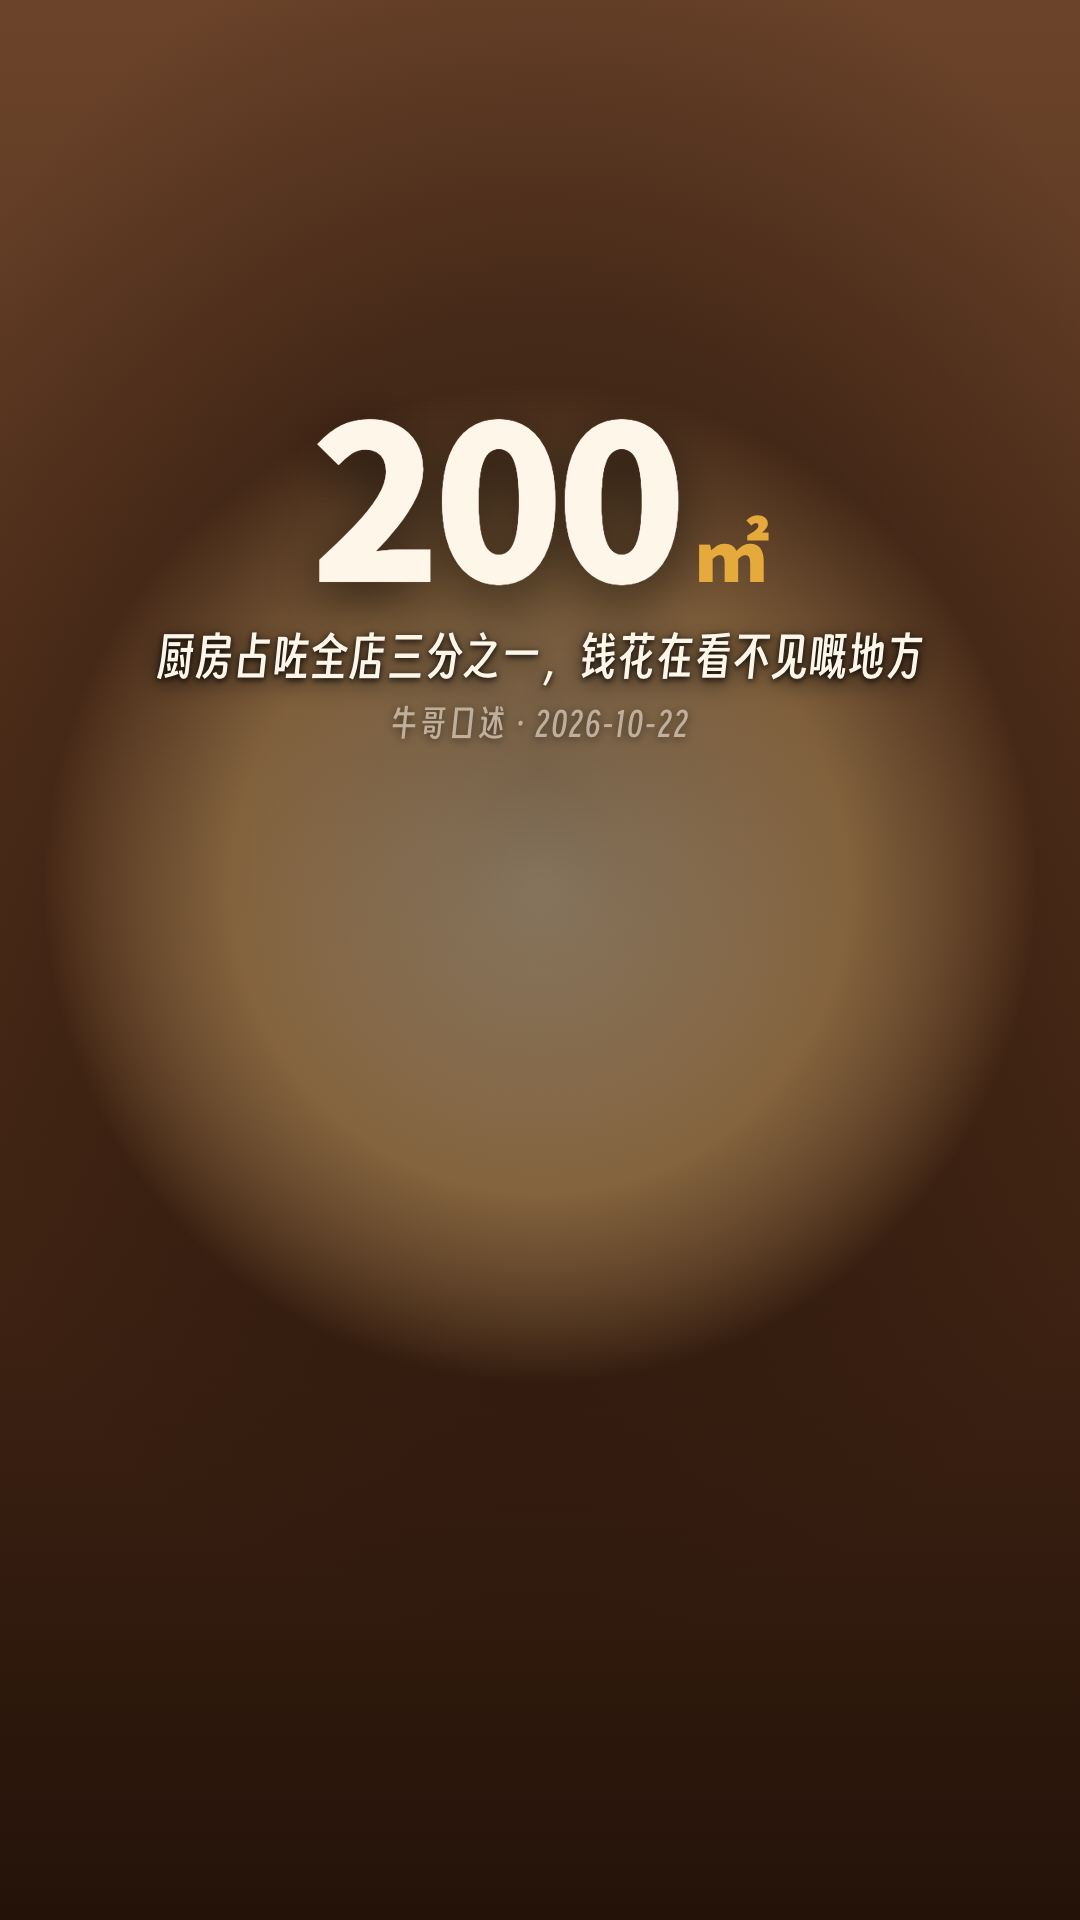
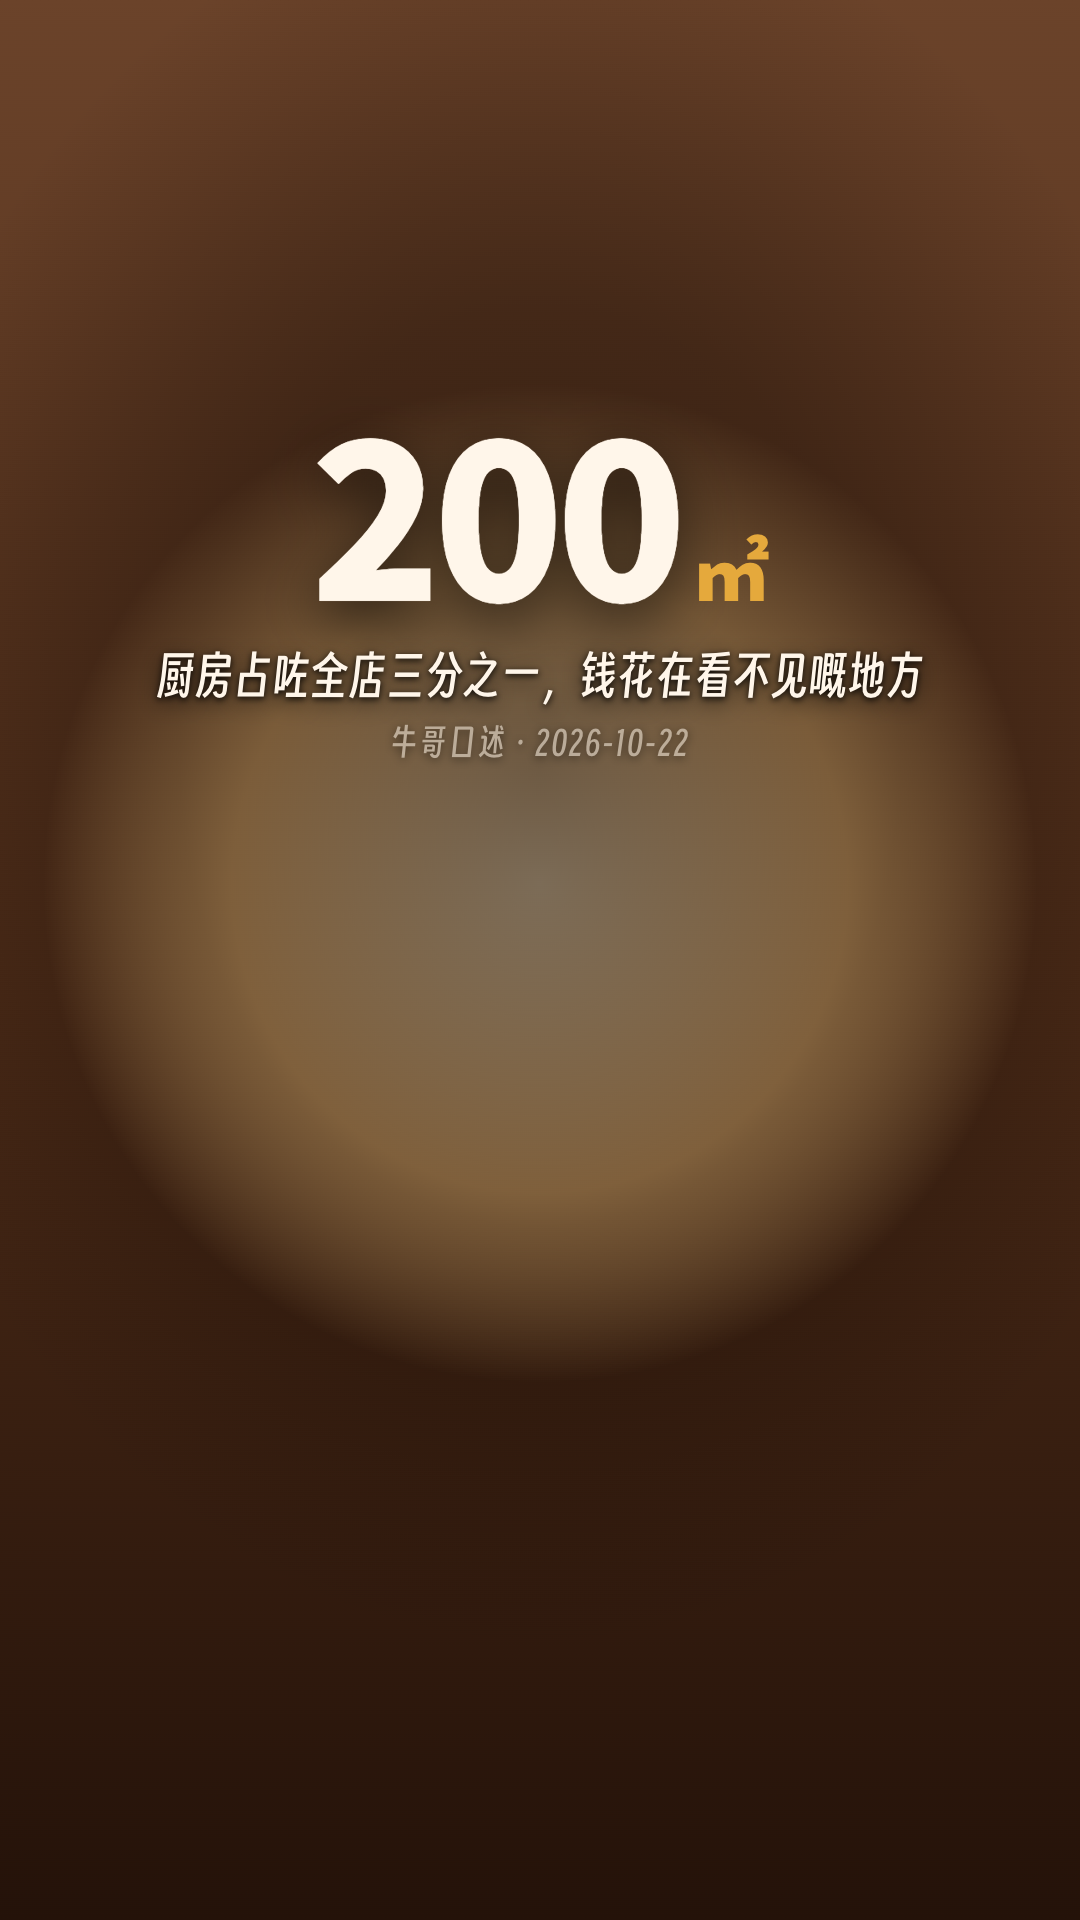
T-018 修 卡面浮起：词条卡内边距、面板外投影与底板/遮罩明度差
一轮 1080 原像素复核的判词：「面板颜色与背景纯度接近，仅靠微小色差区分，浮不起来」。
两个根因都回到代码，都在 tokens.surface 里补成可选字段（缺省 = 旧值，P1/P2/P3 不动）：

- surface.term_pad / surface.term_gap：上一轮删掉的是「第二层框」，不该把面板自己的
  呼吸一起删成贴字。P4 给 [58,52] / 34。
- surface.shadow：面板的 z 轴。P4 给暖色大半径外投影 + 1px 内侧顶光，不是硬边。
- P4 plate 抬亮到 rgba(92,54,26,.90)、金边 .30→.72、scrim 中心 .52→.56、
  card.mg_top_h 0.21→0.23（重心下压一档）。

读数（1080 原像素，面板内 vs 紧贴边外，L=0.2126R+0.7152G+0.0722B）：
term 27.5/53.6（Δ−26.1，卡面比周围暗，像坑）→ 58.9/42.5（Δ+16.4）；
versus 同口径 → 58.9/43.4（Δ+15.5）。
渲染器侧新增 --surface-shadow / --surface-term-pad / --surface-term-gap，
代回变量后比对：P2/P3 仍只有 1 条规则不同（.mg-term→.mg-word），P1 仍 4 条；
像素对账 stat/versus 仍 0/2073600。check_packs 新增字段校验（负样本：只给 plate 不给
scrim、shadow 写「硬边」、term_pad 写单数、term_gap 写字符串，全部判红）。

Changed region(s): [[0.1222, 0.2188, 0.8556, 0.4062]]

diff --git a/scripts/render_hf.py b/scripts/render_hf.py
@@ -1157,10 +1157,12 @@ html, body {{ width:{W}px; height:{H}px; overflow:hidden; background:#000; }}
   color:rgba(var(--surface-ink-rgb),.94); line-height:1.3; }}
 /* versus：两栏面板 + 圆形 VS 徽标。徽标是「这是对立」的唯一视觉信号 */
 .mg-versus .mg-ver {{ display:flex; align-items:stretch; gap:{mg_gap2}px; width:100%; }}
+/* 面板要能「浮起来」，不能只是「画在背景上的一块色」：外投影 + 较亮的底 + 一根亮边。
+   三样都走 tokens.surface（shadow / plate / border），老包不写就是 none，像素不动。 */
 .mg-versus .side {{ flex:1; display:flex; flex-direction:column; gap:{mg_gap2}px;
   padding:{mg_pan}px {mg_pad2}px; border-radius:{mg_rad}px;
   background:var(--surface-plate); border:1px solid var(--surface-border);
-  backdrop-filter:var(--surface-blur); }}
+  backdrop-filter:var(--surface-blur); box-shadow:var(--surface-shadow); }}
 .mg-versus .side b {{ font-family:"SC-Big"; font-weight:900; font-size:{mg_vh}px;
   color:var(--surface-ink); }}
 .mg-versus .side span {{ font-family:"SC-Sub"; font-weight:600; font-size:{mg_vs}px;
@@ -1174,7 +1176,8 @@ html, body {{ width:{W}px; height:{H}px; overflow:hidden; background:#000; }}
 /* term 是一张「词条卡」，要有一块自己的面板——白字直接压在杂树/浅墙上必糊
    （srt-motion-cards 的 term-card 就是一块 .84 的深底，这层别省；具体什么色归包管） */
 .mg-term {{ background:var(--surface-plate-term); border:1px solid var(--surface-border-term);
-  border-radius:{mg_rad}px; padding:{mg_pan}px {mg_pad2}px; text-align:left;
+  border-radius:{mg_rad}px; padding:var(--surface-term-pad); text-align:left;
+  backdrop-filter:var(--surface-blur); box-shadow:var(--surface-shadow);
   align-items:flex-start !important; display:flex; flex-direction:column; }}
 /* 词头**不能**再叫 .mg-term：外层定位容器就是 `mg mg-term`，内外同名时同一个
    `.mg-term` 选择器同时命中两层，卡片被套上一个同样的深框——「黑框套黑框」
@@ -1183,7 +1186,8 @@ html, body {{ width:{W}px; height:{H}px; overflow:hidden; background:#000; }}
   color:var(--surface-ink); line-height:1.04; letter-spacing:-.02em; }}
 /* 不加左侧竖条：它只对着释义，看着像列表符号，把版面切散（srt 的 term-card 也没有） */
 .mg-term .mg-def {{ font-family:"SC-Sub"; font-weight:500; font-size:{mg_step}px;
-  color:rgba(var(--surface-ink-rgb),.95); margin-top:{mg_gap}px; line-height:1.42; text-align:left;
+  color:rgba(var(--surface-ink-rgb),.95); margin-top:var(--surface-term-gap);
+  line-height:1.42; text-align:left;
   text-shadow:0 2px 10px rgba(0,0,0,.9); }}
 {gen_css}
 </style>
@@ -1528,6 +1532,19 @@ def build_html(*, slug, W, H, FPS, total, videos, caps, cards, style, fonts, gra
         _blur = float(_surf.get("blur_ness") or 0)
     except (TypeError, ValueError):
         _blur = 0.0
+    # 「浮起」也是语域的一部分：一块板子压在食物上，没投影就像贴纸。
+    # 缺省 none，即不收这一行——老包（P1/P2/P3）像素一个不动。
+    _shadow = str(_surf.get("shadow") or "none")
+    # 词条卡自己的内边距与行间：去掉的是「第二层框」，不是面板的呼吸。
+    # 缺省值就是旧硬编码值（30/26 与 22），所以不写 = 视觉不变。
+    _pxv = lambda v: max(12, int(round(float(v) * (W / 1080.0))))          # noqa: E731
+    _tpad = _surf.get("term_pad")
+    _tpad_css = (f"{_pxv(_tpad[0])}px {_pxv(_tpad[1])}px"
+                 if isinstance(_tpad, (list, tuple)) and len(_tpad) == 2
+                 else f"{_pxv(30)}px {_pxv(26)}px")                        # 旧值：mg_pan / mg_pad2
+    _tgap = _surf.get("term_gap")
+    _tgap_css = (f"{_pxv(_tgap)}px" if isinstance(_tgap, (int, float))
+                 else f"{_pxv(22)}px")                                     # 旧值：mg_gap
     pack_vars = " ".join([
         f"--ground:{_pal.get('ground') or '#1A1410'};",
         f"--ink:{_pal.get('ink') or '#FFFFFF'};",
@@ -1544,6 +1561,9 @@ def build_html(*, slug, W, H, FPS, total, videos, caps, cards, style, fonts, gra
         f"--surface-ink-rgb:{_srgb};",
         # blur_ness=0 → none：等于不收这一行，老包的像素一个都不动
         f"--surface-blur:{'none' if _blur <= 0 else f'blur({_blur:g}px)'};",
+        f"--surface-shadow:{_shadow};",
+        f"--surface-term-pad:{_tpad_css};",
+        f"--surface-term-gap:{_tgap_css};",
     ])
     # MG 卡的上沿：默认 0.21H，压在字幕带之上；pack 可用 card.mg_top_h 调
     mg_top = round(float((style.get("card") or {}).get("mg_top_h") or 0.21) * 100, 2)

diff --git a/scripts/check_packs.py b/scripts/check_packs.py
@@ -62,8 +62,9 @@ HEX_RE = re.compile(r"^#[0-9A-Fa-f]{6}$")
 # 换包换不掉；拿它去包广式早茶，虾饺被压成生冷灰暗色（2026-11-13 T-018 事故）。
 # 这里两道闸：① 每个包必须把 surface 交代清楚；② 渲染器源码不许再写回那套冷黑蓝。
 SURFACE_REQUIRED = ("plate", "scrim", "border", "blur_ness")
-# 可选键：词条卡要更实的底/描边（字多面积小），卡面字色（深色纸底包不能跟 palette.ink）
-SURFACE_OPTIONAL = ("plate_term", "border_term", "ink")
+# 可选键：词条卡要更实的底/描边（字多面积小）、卡面字色（深色纸底包不能跟 palette.ink）、
+# 面板的「浮起」（阴影）与词条卡的呼吸（内边距 / 行间）——不写就等于没这一层
+SURFACE_OPTIONAL = ("plate_term", "border_term", "ink", "shadow", "term_pad", "term_gap")
 BLUR_MAX = 40          # 超过这个数就不叫「柔化」了，叫把底片糊成一片
 
 RENDERER = ROOT / "scripts" / "render_hf.py"
@@ -115,6 +116,20 @@ def check_surface(pack: dict) -> tuple[list[str], list[str]]:
     ink = surf.get("ink")
     if ink is not None and not HEX_RE.match(str(ink)):
         err.append(f"tokens.surface.ink 不是 #RRGGBB：{ink}")
+    # shadow：要么 none，要么是一串能生效的 CSS 阴影（含 px 半径）；「0 0 0 #000」这种硬边也算写了
+    sh = surf.get("shadow")
+    if sh is not None and str(sh).strip().lower() != "none" and "px" not in str(sh):
+        err.append(f"tokens.surface.shadow 不像 CSS 阴影：{sh}")
+    # term_pad：[上下, 左右] 两个数字（像素）；只写一个数会让上下左右挤成一圈字
+    tp = surf.get("term_pad")
+    if tp is not None:
+        ok_tp = (isinstance(tp, (list, tuple)) and len(tp) == 2
+                 and all(isinstance(v, (int, float)) and v >= 0 for v in tp))
+        if not ok_tp:
+            err.append(f"tokens.surface.term_pad 要写 [上下, 左右] 两个非负数：{tp}")
+    tg = surf.get("term_gap")
+    if tg is not None and not (isinstance(tg, (int, float)) and tg >= 0):
+        err.append(f"tokens.surface.term_gap 要是非负数（px）：{tg}")
     return err, warn
 
 

diff --git a/references/mg-library.md b/references/mg-library.md
@@ -139,13 +139,16 @@ Jerry 的原话：「srt-motion-cards 的卡还是用的不好，出现的太短
 
 | 字段 | 必填 | 作用 | 写作要点 |
 | --- | --- | --- | --- |
-| `plate` | ✓ | 面板底（`versus` 两栏） | 语域色 + 透明度，如暖食 `rgba(34,18,10,.78)` |
+| `plate` | ✓ | 面板底（`versus` 两栏） | 语域色 + 透明度，如暖食 `rgba(92,54,26,.90)` |
 | `plate_term` | | 词条卡底 | 字多面积小，一般比 `plate` 再实一成；不写就等同 `plate` |
-| `border` | ✓ | 面板描边 | 描边颜色也要跟语域走（暖食走暖白/金，不走中性白） |
+| `border` | ✓ | 面板描边 | 描边颜色也要跟语域走（暖食走暖白/金，不走中性白）；亮到能一眼看出卡沿 |
 | `border_term` | | 词条卡描边 | 不写等同 `border` |
 | `scrim` | ✓ | 整屏暗场 | 写**完整 CSS 背景**（`radial-gradient(...)` 整串），才能表达「只局部柔化、边缘归零」 |
 | `ink` | | 卡面字色 `#RRGGBB` | 深底浅字；纸感这类浅底包不能跟 `palette.ink` 混用 |
 | `blur_ness` | ✓ | 面板磨砂（`backdrop-filter` 半径） | `0` = 不磨砂（`none`，像素不动），> 24 会把底片糊成一片 |
+| `shadow` | | 面板外投影（可带一道内侧顶光） | 缺省 `none`（像素不动）。大半径 + 低不透明度 + 暖色，**不要硬边** |
+| `term_pad` | | 词条卡内边距 `[上下, 左右]` | 缺省 `[30, 26]`（旧值）。删内框时别把面板的呼吸一起删了 |
+| `term_gap` | | 词头与释义的行间（px） | 缺省 `22`（旧值）。词条卡的「词」与「释义」要能分开读 |
 
 两条硬规矩：
 
@@ -154,9 +157,14 @@ Jerry 的原话：「srt-motion-cards 的卡还是用的不好，出现的太短
    （`#0A0D13` / `#0C0F15`）或非等比 `scaleX()` 直接判红——防的是「下次顺手写回去」。
 2. **遮罩浓度是「读不读得出来」的账，不是风格账。** 换语域只换色温；
    把 `.90` 降到 `.52` 就等于把文字对比度抵给背景了，得同时把 `plate` 加实。
+3. **面板要「浮起来」，不能只是「画在背景上」。** 判据是可量的：面板内与紧贴边外的明度差
+   （L = 0.2126R+0.7152G+0.0722B）**要为正、且面板明显亮于贴边阴影带**。
+   同色系底板 + 同色系遮罩最容易犯的错就是「深棕底漂在暖棕背景上」：P4 一轮复核时
+   面板内 L=27.5、贴边 L=53.6（−26，卡面比周围暗），像一块坑；改成
+   `plate` 亮一档 + `shadow` 投影 + 亮一档的金边后，面板内 L=58.9、贴边 L=42.5（+16.4）。
 
 现成四包：`P1-warm`（暖实拍，暖炭灰卡面）、`P2-paper`（纸感）、`P3-dark`（深色科技，
-承接原来的冷黑值）、`P4-canton-warm`（暖食烟火：琥珀深茶棕 + 暖金/朱砂）。
+承接原来的冷黑值）、`P4-canton-warm`（暖食烟火：琥珀深茶棕底板 + 暖金/朱砂 + 暖色外投影）。
 
 ```bash
 python3 scripts/render_style_preview.py --pack P4-canton-warm --mg

diff --git a/STATUS.md b/STATUS.md
@@ -339,3 +339,29 @@ contrast 1.10 + gamma 0.85 把亮度压下去之后，**相对彩度被顶到削
 并对 `render_hf.py` 源码做静态断言——再出现冷黑蓝卡底或非等比 `scaleX()` 直接判红。
 `render_style_preview.py --mg` 真渲三张卡面（stat/term/versus）落 `styles/previews/`，
 样张那四帧是 Pillow 画的，证不了底板上屏什么样，这一支才证得了。
+
+### 2026-11-13 · T-018 二轮：卡面「浮起」
+
+复核以 1080 原像素看 P4 三张卡，判词是「面板飘在背景上而不是浮在食物上」。两条根因都回到代码：
+
+1. **`.mg-term` 的内边距随内框一起被删了。** 上轮去掉的是「第二层框」，不该连面板自己的呼吸一起带走。
+   新增 `surface.term_pad`（缺省 `[30,26]` = 旧值，不写就像素不动）与 `surface.term_gap`（缺省 22）；
+   P4 给 `[58,52] / 34`，词头顶笔不再贴上沿。
+2. **`plate` 与 `scrim` 明度差不够。** 深茶棕底漂在暖棕遮罩上，等于同色系叠同色系。
+   P4 `plate` 从 `rgba(34,18,10,.78)` 抬到 `rgba(92,54,26,.90)`，金边 `.30→.72`，
+   scrim 中心 `.52→.56`，并新增 `surface.shadow`（缺省 `none`）给面板一层暖色大半径外投影
+   ＋ 1px 内侧顶光；`card.mg_top_h` 0.21→0.23 把重心下压一档。
+
+面板浮起读数（1080 原像素，面板内 60–200px 采样 vs 左侧 10–26px 贴边带 vs 0–8px 相邻背景）：
+
+| 卡 | 面板内 L | 贴边 L | 相邻 L | ΔL(内−贴边) | ΔL(内−背景) |
+| --- | --- | --- | --- | --- | --- |
+| `term` 改前 | 27.5 | 53.6 | 54.5 | −26.1 | −27.0 |
+| `term` 改后 | 58.9 | 42.5 | 47.1 | **+16.4** | **+11.8** |
+| `versus` 改前 | 27.5 | 53.6 | 54.5 | −26.1 | −27.0 |
+| `versus` 改后 | 58.9 | 43.4 | 48.0 | **+15.5** | **+10.9** |
+
+`stat` 没有面板（只有遮罩，可读性靠字重与遮罩），明度差 −5.9 → −5.7，重心随 `mg_top_h` 下移。
+**P1/P2/P3 继续锁死**：新增三个可选字段全部缺省为旧值（`none` / `30px 26px` / `22px`），
+把变量代回去再归一化比，P2/P3 仍只有 1 条规则不同（`.mg-term`→`.mg-word`），P1 仍只有 4 条；
+像素对账 `stat`/`versus` 仍 **0/2073600 差异**。
